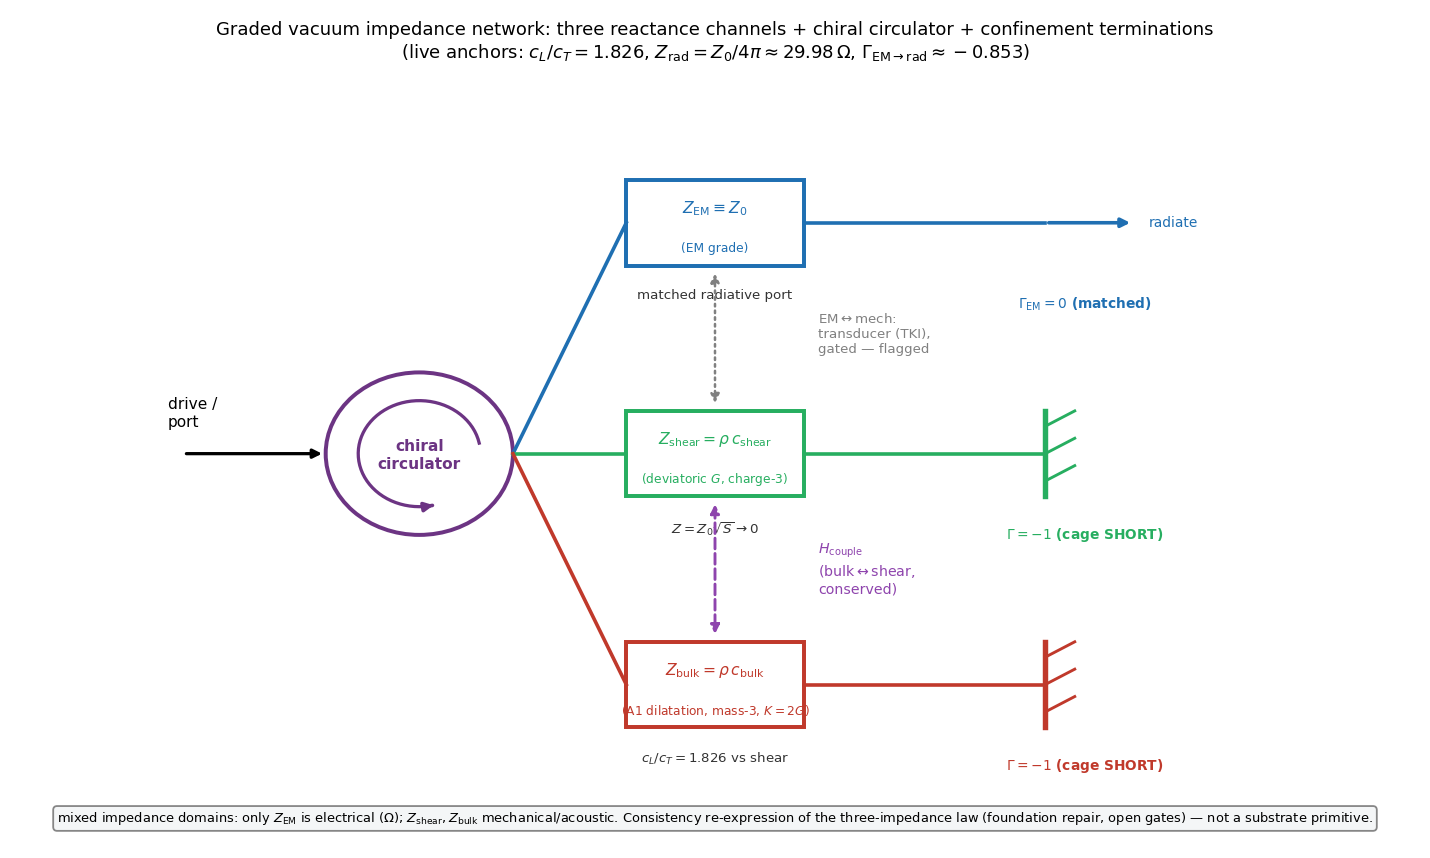
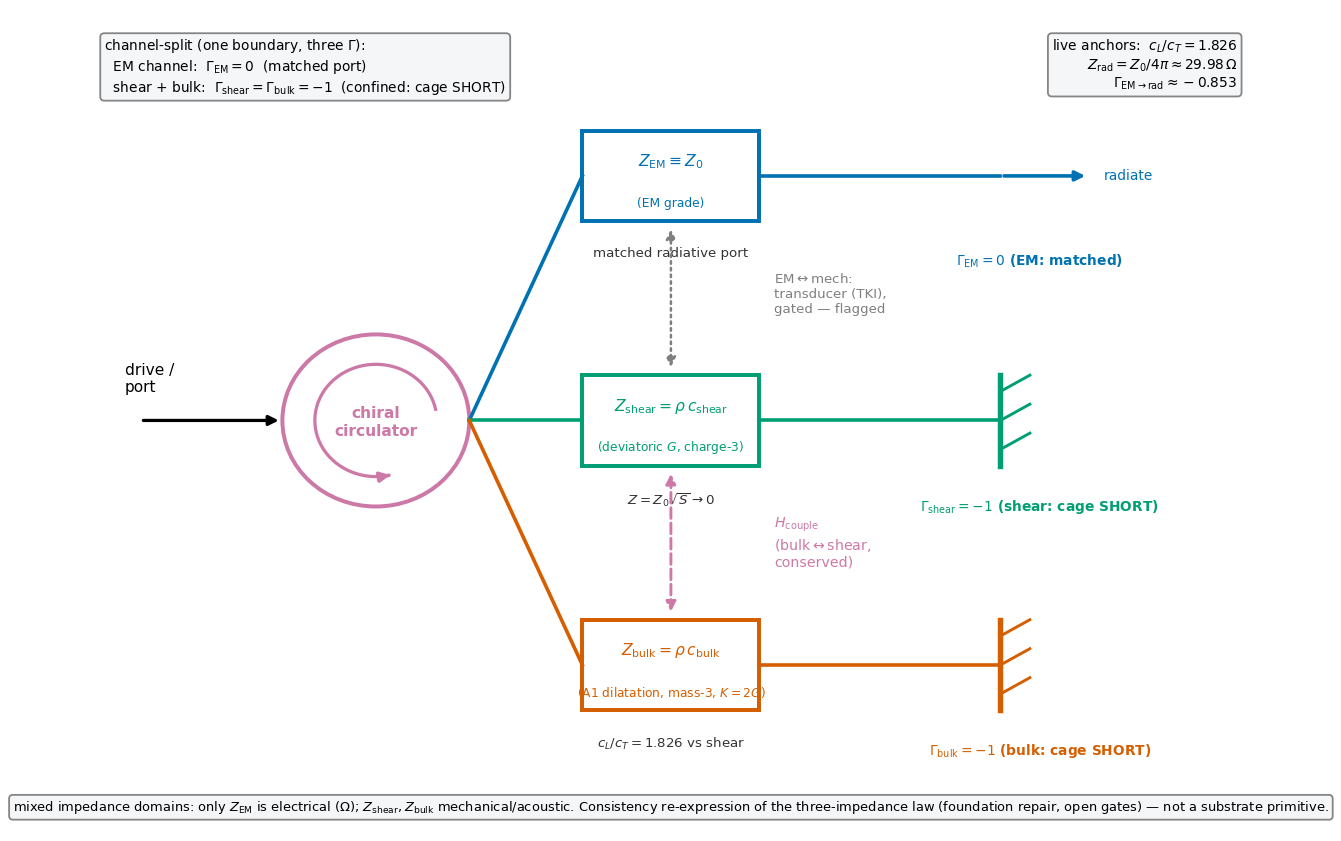
vol9 graded-network figures: house-style migration + channel-split schematic relabel
Migrate the four graded-vacuum-network figures (schematic, smith, op_sweep,
forkA discriminator) onto the ave.viz.style house profile per
ave-figure-discipline (Axis 4):
  * style.apply() print profile (white bg) once in main()
  * Okabe-Ito palette via style.COLORS (EM=ave blue, shear=accent green,
    bulk=comparison vermillion, guides=muted gray, circulator=reddish-purple);
    retires the off-palette #1f6fb2/#27ae60/#c0392b/#6c3483/#8e44ad hexes
  * baked suptitles/axes-titles removed (captions live in LaTeX \caption{})
  * legends moved OFF the data via style.legend(..., where="below") — the
    forkA panels and op_sweep previously overlapped the curves
  * style.axis_label() units-in-brackets on the dimensioned axes (schematic
    Fork-A axes kept plain — no physical units to bracket)

CONTENT FIX (schematic, canon-locked 2026-06-17 Rule-12 channel-split;
device-circuit-models.md:95-97,143-145): the two distinct Gamma values are NOT
two Gamma_EM. Relabel the three terminations as the per-channel split of ONE
saturation boundary — Gamma_EM=0 (EM: matched radiative port),
Gamma_shear=-1 (shear: cage SHORT), Gamma_bulk=-1 (bulk: cage SHORT) — plus an
on-figure channel-split key. The two -1 walls now read as the distinct
shear/bulk confined channels, not two values of one Gamma.

Presentation-tier only: every live engine anchor is preserved unchanged
(c_L/c_T=sqrt(10/3)=1.826 from RATIO_BULK_SHEAR_MECH, Z_rad=Z_0/4pi=29.98 Ohm
[…]

diff --git a/src/scripts/vol_9_device/graded_vacuum_network_figures.py b/src/scripts/vol_9_device/graded_vacuum_network_figures.py
@@ -57,6 +57,9 @@ _REPO_SRC = os.path.abspath(os.path.join(os.path.dirname(__file__), "..", "..", 
 if _REPO_SRC not in sys.path:
     sys.path.insert(0, _REPO_SRC)
 
+# ── house figure style (presentation tier; NO engine dependency) ───────────────
+from ave.viz import style  # noqa: E402
+
 # ── LIVE engine imports (READ-ONLY: figures only, no engine mutation) ──────────
 from ave.core.constants import ALPHA, Z_RADIATION  # noqa: E402
 
@@ -94,10 +97,17 @@ os.makedirs(_FIG_DIR, exist_ok=True)
 
 DPI = 130
 
-# Channel palette (consistent across all four slots).
-C_EM = "#1f6fb2"     # matched radiative port
-C_SHEAR = "#27ae60"  # deviatoric G (charge-3 Cosserat winding)
-C_BULK = "#c0392b"   # A1 dilatation (mass-3) at K=2G
+# Channel palette (consistent across all four slots) — Okabe-Ito via the house style
+# (ave-figure-discipline Axis 4). Pulled from style.COLORS so a palette re-tune in
+# ave.viz.style propagates here. Channel→colour mapping (colourblind-safe, distinct):
+#   EM    = blue        (the AVE/engine "primary" — the matched radiative port)
+#   shear = bluish-green accent (deviatoric G, charge-3 Cosserat winding)
+#   bulk  = vermillion   (A1 dilatation, mass-3, at K=2G — the "comparison" hue)
+C_EM = style.COLORS["ave"]          # #0072B2 blue   — matched radiative port
+C_SHEAR = style.COLORS["accent"]    # #009E73 green   — deviatoric G (charge-3)
+C_BULK = style.COLORS["comparison"]  # #D55E00 vermillion — A1 dilatation (mass-3)
+C_GUIDE = style.COLORS["muted"]     # #7F7F7F gray — reference lines / guides
+C_CIRC = "#CC79A7"                  # Okabe-Ito reddish-purple — chiral circulator / H_couple
 
 
 def _gamma_mu_load(S: np.ndarray) -> np.ndarray:
@@ -135,65 +145,59 @@ def fig_ii_smith() -> str:
     S_cap = float(saturation_kernel(np.array(0.99)))
     g_cap = float(_gamma_mu_load(np.array(S_cap)))
 
-    fig, (axL, axR) = plt.subplots(1, 2, figsize=(11.6, 5.2))
+    fig, (axL, axR) = plt.subplots(1, 2, figsize=(11.6, 5.6))
 
     # ── left: Γ vs S(A) per channel ──
     axL.plot(S, gamma_mech, color=C_BULK, lw=2.4,
-             label=r"$Z_{\rm bulk},\,Z_{\rm shear}$ ($\mu$-load $Z=Z_0\sqrt{S}$): $\Gamma\!\to\!-1$")
+             label=r"$Z_{\rm shear},Z_{\rm bulk}$ ($\mu$-load $Z=Z_0\sqrt{S}$): $\Gamma\!\to\!-1$")
     axL.plot(S, gamma_em, color=C_EM, lw=2.4, ls="-",
              label=r"$Z_{\rm EM}\equiv Z_0$ (matched port): $\Gamma=0$ (flat)")
-    axL.axhline(-1.0, color="grey", lw=0.9, ls=":")
-    axL.axhline(0.0, color="grey", lw=0.9, ls=":")
-    axL.plot(1.0, 0.0, "o", color="k", ms=6)
+    axL.axhline(-1.0, color=C_GUIDE, lw=0.9, ls=":")
+    axL.axhline(0.0, color=C_GUIDE, lw=0.9, ls=":")
+    axL.plot(1.0, 0.0, "o", color=style.COLORS["data"], ms=6)
     axL.annotate("vacuum: $S=1$, $\\Gamma=0$", xy=(1.0, 0.0), xytext=(0.55, -0.22),
-                 fontsize=8.5, arrowprops=dict(arrowstyle="->", lw=0.9))
+                 fontsize=8.5, arrowprops=dict(arrowstyle="->", lw=0.9, color=C_GUIDE))
     axL.plot(S_cap, g_cap, "s", color=C_BULK, ms=7)
     axL.annotate(f"$A_{{cap}}=0.99$: $S={S_cap:.3f}$,\n$\\Gamma\\approx{g_cap:.3f}$",
                  xy=(S_cap, g_cap), xytext=(0.40, -0.78), fontsize=8.5,
-                 arrowprops=dict(arrowstyle="->", lw=0.9))
+                 arrowprops=dict(arrowstyle="->", lw=0.9, color=C_GUIDE))
     axL.annotate("$S\\!\\to\\!0$ (cage SHORT)\n$\\Gamma\\!\\to\\!-1$", xy=(0.02, -0.97),
                  xytext=(0.12, -0.55), fontsize=8.5, color=C_BULK,
                  arrowprops=dict(arrowstyle="->", lw=0.9, color=C_BULK))
-    axL.set_xlabel(r"saturation $S(A)=\sqrt{1-A^2}$  (live engine kernel)")
-    axL.set_ylabel(r"reflection $\Gamma=(Z-1)/(Z+1)$")
+    axL.set_xlabel(style.axis_label(r"saturation (live engine kernel)",
+                                    r"S(A)=\sqrt{1-A^2}", ""))
+    axL.set_ylabel(style.axis_label("reflection", r"\Gamma=(Z-1)/(Z+1)", ""))
     axL.set_xlim(0.0, 1.02)
     axL.set_ylim(-1.12, 0.30)
     axL.invert_xaxis()  # saturation increases left→right (S:1→0)
     axL.grid(alpha=0.3)
-    axL.legend(fontsize=8.3, loc="upper left")
-    axL.set_title(r"Per-channel $\Gamma$ vs saturation $S(A)$")
+    style.legend(axL, fontsize=8.3, where="below")
 
     # ── right: the same trajectory on a (real-axis) Smith chart ──
     theta = np.linspace(0, 2 * np.pi, 400)
-    axR.plot(np.cos(theta), np.sin(theta), color="grey", lw=1.0)  # |Γ|=1 unit circle
+    axR.plot(np.cos(theta), np.sin(theta), color=C_GUIDE, lw=1.0)  # |Γ|=1 unit circle
     # constant-resistance circles (r=0,1,3) for orientation
     for r, a in ((0.0, 0.35), (1.0, 0.45), (3.0, 0.30)):
         cx = r / (1 + r)
         rad = 1.0 / (1 + r)
-        axR.plot(cx + rad * np.cos(theta), rad * np.sin(theta), color="grey", lw=0.7, alpha=a)
-    axR.axhline(0.0, color="grey", lw=0.7, alpha=0.5)
+        axR.plot(cx + rad * np.cos(theta), rad * np.sin(theta), color=C_GUIDE, lw=0.7, alpha=a)
+    axR.axhline(0.0, color=C_GUIDE, lw=0.7, alpha=0.5)
     # μ-load trajectory: Γ real, sweeping 0 → -1 as S:1→0 (along the negative real axis)
     axR.plot(gamma_mech, np.zeros_like(gamma_mech), color=C_BULK, lw=3.0,
-             label=r"$Z_{\rm bulk},Z_{\rm shear}$: $\Gamma:0\!\to\!-1$")
+             label=r"$Z_{\rm shear},Z_{\rm bulk}$: $\Gamma:0\!\to\!-1$")
     axR.plot(0.0, 0.0, "o", color=C_EM, ms=10,
              label=r"$Z_{\rm EM}$ matched: $\Gamma=0$ (centre)")
     axR.plot(-1.0, 0.0, "*", color=C_BULK, ms=15, label=r"short $\Gamma=-1$ ($S\!\to\!0$)")
     axR.set_xlim(-1.25, 1.25)
     axR.set_ylim(-1.25, 1.25)
     axR.set_aspect("equal")
-    axR.set_xlabel(r"$\mathrm{Re}\,\Gamma$")
-    axR.set_ylabel(r"$\mathrm{Im}\,\Gamma$")
-    axR.legend(fontsize=8.0, loc="upper right")
-    axR.set_title("Smith view ($Z_0$-normalised)")
+    axR.set_xlabel(style.axis_label("", r"\mathrm{Re}\,\Gamma", ""))
+    axR.set_ylabel(style.axis_label("", r"\mathrm{Im}\,\Gamma", ""))
+    style.legend(axR, fontsize=8.0, where="below")
 
-    fig.suptitle(
-        r"Graded-network per-channel reflection from the live varactor operator: "
-        r"$Z_{\rm EM}$ matched ($\Gamma=0$), $Z_{\rm shear}/Z_{\rm bulk}\to\Gamma=-1$ as $S(A)\to0$",
-        fontsize=10.5,
-    )
     p = os.path.join(_FIG_DIR, "vol9_graded_network_smith.png")
-    fig.tight_layout(rect=(0, 0, 1, 0.95))
-    fig.savefig(p, dpi=DPI)
+    fig.tight_layout()
+    fig.savefig(p, dpi=DPI, bbox_inches="tight")
     plt.close(fig)
     return p
 
@@ -237,31 +241,30 @@ def fig_iv_op_sweep() -> str:
 
     ax.annotate("$S\\to0$:  $Z_{\\rm bulk},Z_{\\rm shear}\\to0$ (cage SHORT)",
                 xy=(0.02, 0.05), xytext=(0.22, 0.55), fontsize=9,
-                arrowprops=dict(arrowstyle="->", lw=1.0))
-    ax.plot(1.0, 1.0, "o", color="k", ms=6)
+                arrowprops=dict(arrowstyle="->", lw=1.0, color=C_GUIDE))
+    ax.plot(1.0, 1.0, "o", color=style.COLORS["data"], ms=6)
     ax.annotate("vacuum $S=1$\n(all channels matched)", xy=(1.0, 1.0), xytext=(0.55, 1.45),
-                fontsize=8.5, arrowprops=dict(arrowstyle="->", lw=0.9))
+                fontsize=8.5, arrowprops=dict(arrowstyle="->", lw=0.9, color=C_GUIDE))
 
-    ax.set_xlabel(r"saturation $S(A)=\sqrt{1-A^2}$  (live engine kernel; $S:1\to0$ as the core saturates)")
-    ax.set_ylabel(r"channel impedance  $Z/Z_{\rm channel,0}$  (each in its own domain units)")
+    ax.set_xlabel(style.axis_label(
+        r"saturation (live engine kernel; $S:1\to0$ as the core saturates)",
+        r"S(A)=\sqrt{1-A^2}", ""))
+    ax.set_ylabel(style.axis_label(
+        "channel impedance (each in its own domain units)", r"Z/Z_{\rm channel,0}", ""))
     ax.set_xlim(0.0, 1.02)
     ax.set_ylim(0.0, max(1.7, RATIO_BULK_SHEAR_MECH + 0.15))
     ax.invert_xaxis()  # increasing saturation left→right
     ax.grid(alpha=0.3)
-    ax.legend(fontsize=8.6, loc="upper left")
-    ax.set_title(
-        "Operating-point sweep: channel impedances vs saturation $S$\n"
-        r"($Z_{\rm EM}$ flat; $Z_{\rm bulk}/Z_{\rm shear}\to0$ as $S\to0$ — from the live $Z=Z_0\sqrt{S}$ map)"
-    )
+    style.legend(ax, fontsize=8.6, where="below")
     # caveat banner: mixed impedance domains (the §6 three-impedance mis-scope warning)
     ax.text(0.5, 0.02,
             r"mixed domains: only $Z_{\rm EM}$ is electrical ($\Omega$); "
             r"$Z_{\rm shear},Z_{\rm bulk}$ are mechanical/acoustic ($\rho\times$speed)",
             transform=ax.transAxes, ha="center", va="bottom", fontsize=7.6,
-            bbox=dict(boxstyle="round", fc="#fff6e6", ec="grey", alpha=0.9))
+            bbox=dict(boxstyle="round", fc="#fff6e6", ec=C_GUIDE, alpha=0.9))
     p = os.path.join(_FIG_DIR, "vol9_graded_network_op_sweep.png")
     fig.tight_layout()
-    fig.savefig(p, dpi=DPI)
+    fig.savefig(p, dpi=DPI, bbox_inches="tight")
     plt.close(fig)
     return p
 
@@ -361,7 +364,7 @@ def fig_iii_forkA_discriminator() -> dict:
     Q_cold = cold["Q_ringdown"]
     Z_rad = float(Z_RADIATION)
 
-    fig, (axL, axR) = plt.subplots(1, 2, figsize=(12.2, 5.4))
+    fig, (axL, axR) = plt.subplots(1, 2, figsize=(12.2, 6.0))
 
     # ── LEFT: isolated intrinsic Q(N) → ∞  +  α-free cold-cage anchor ──
     Q_open = np.array(iso["Q_open"], dtype=float)
@@ -374,17 +377,13 @@ def fig_iii_forkA_discriminator() -> dict:
     axL.axhspan(band_lo, band_hi, color=C_EM, alpha=0.16)
     axL.axhline(Z_rad, color=C_EM, lw=1.0, ls=":",
                 label=rf"radiative floor $Z_{{\rm rad}}=Z_0/4\pi\approx{Z_rad:.2f}$ (band-consistent, $\neq$ identity, DEC-5)")
-    axL.axhline(ALPHA_INV, color="grey", lw=1.0, ls="--",
+    axL.axhline(ALPHA_INV, color=C_GUIDE, lw=1.0, ls="--",
                 label=rf"$\alpha^{{-1}}={ALPHA_INV:.1f}$ (baked echo — NOT reproduced cold)")
-    axL.set_xlabel(r"lattice resolution $N$ (dense isolation eigensolve)")
-    axL.set_ylabel(r"$Q=|\mathrm{Re}\,\omega|/(2|\mathrm{Im}\,\omega|)$")
+    axL.set_xlabel(style.axis_label("lattice resolution (dense isolation eigensolve)", "N", ""))
+    axL.set_ylabel(style.axis_label("", r"Q=|\mathrm{Re}\,\omega|/(2|\mathrm{Im}\,\omega|)", ""))
     axL.set_ylim(10, 1e9)
     axL.grid(alpha=0.3, which="both")
-    axL.legend(fontsize=7.6, loc="center right")
-    axL.set_title(
-        "ISOLATED arm (live engines): intrinsic $Q\\to\\infty$ (lossless-confined)\n"
-        rf"$\alpha$-free loaded floor $Q\approx{Q_cold:.1f}$ (cold cage) — neither is 137"
-    )
+    style.legend(axL, fontsize=7.6, where="below")
 
     # ── RIGHT: Fork-A discriminator schematic (coupled DEFERRED) ──
     g = np.linspace(-1.0, 1.0, 400)  # a detuning/coupling axis (schematic)
@@ -392,41 +391,38 @@ def fig_iii_forkA_discriminator() -> dict:
     # behaviour at H_couple=0 (the isolation arm IS the no-coupling limit).
     axR.plot(g, 0.6 * g, color=C_SHEAR, lw=2.4, label="isolated: free crossing (shear branch)")
     axR.plot(g, -0.6 * g, color=C_BULK, lw=2.4, label="isolated: free crossing (bulk branch)")
-    axR.plot(0.0, 0.0, "x", color="k", ms=10, mew=2.5)
+    axR.plot(0.0, 0.0, "x", color=style.COLORS["data"], ms=10, mew=2.5)
     axR.annotate("free crossing\n(no avoided gap)\n$H_{\\rm couple}=0$", xy=(0.0, 0.0),
-                 xytext=(0.18, 0.55), fontsize=8.5, arrowprops=dict(arrowstyle="->", lw=0.9))
+                 xytext=(0.18, 0.55), fontsize=8.5,
+                 arrowprops=dict(arrowstyle="->", lw=0.9, color=C_GUIDE))
     # COUPLED (DEFERRED): the avoided-crossing the coupled solve WOULD produce — drawn
     # as a faint dashed sketch with an explicit "NOT computed" stamp. NOT engine data.
     gap = 0.30
     upper = 0.5 * (0.6 * g - 0.6 * g) + np.sqrt((0.6 * g) ** 2 + gap ** 2)
     lower = -np.sqrt((0.6 * g) ** 2 + gap ** 2)
-    axR.plot(g, upper, color="grey", lw=1.6, ls="--", alpha=0.6)
-    axR.plot(g, lower, color="grey", lw=1.6, ls="--", alpha=0.6,
+    axR.plot(g, upper, color=C_GUIDE, lw=1.6, ls="--", alpha=0.6)
+    axR.plot(g, lower, color=C_GUIDE, lw=1.6, ls="--", alpha=0.6,
              label="coupled: avoided crossing (SCHEMATIC)")
     axR.annotate("mode-splitting gap\n$\\Rightarrow$ loaded $Q\\to$ OBSERVED $Q$ (not 137)",
                  xy=(0.0, gap), xytext=(-0.95, 0.55), fontsize=8.0,
-                 arrowprops=dict(arrowstyle="->", lw=0.9, color="grey"))
+                 arrowprops=dict(arrowstyle="->", lw=0.9, color=C_GUIDE))
     axR.text(0.5, 0.04,
              "COUPLED ARM DEFERRED — pending Build-B $H_{\\rm couple}$ (NOT implemented).\n"
              "Dashed avoided-crossing is a SCHEMATIC, not engine data (not faked: not computed).",
              transform=axR.transAxes, ha="center", va="bottom", fontsize=8.0,
-             bbox=dict(boxstyle="round", fc="#ffecec", ec="#c0392b", alpha=0.95))
+             bbox=dict(boxstyle="round", fc="#ffecec", ec=C_BULK, alpha=0.95))
+    # schematic axes (no physical units — a discriminator cartoon, not a data plot):
+    # keep plain text rather than forcing a misleading "[dimensionless]" bracket.
     axR.set_xlabel("coupling / detuning (schematic axis)")
-    axR.set_ylabel("mode frequency (schematic)")
+    axR.set_ylabel("mode frequency (schematic axis)")
     axR.set_xlim(-1.05, 1.05)
     axR.set_ylim(-1.0, 1.0)
     axR.grid(alpha=0.25)
-    axR.legend(fontsize=7.8, loc="upper left")
-    axR.set_title("Fork-A: isolated free-crossing (live) vs coupled mode-splitting (deferred)")
+    style.legend(axR, fontsize=7.8, where="below")
 
-    fig.suptitle(
-        "Fork-A discriminator — ISOLATED arm from the live isolation eigensolver + "
-        rf"$\alpha$-free cold-cage ringdown ($Q\approx{Q_cold:.1f}$); COUPLED arm deferred-pending-$H_{{\rm couple}}$",
-        fontsize=10.2,
-    )
     p = os.path.join(_FIG_DIR, "vol9_forkA_discriminator.png")
-    fig.tight_layout(rect=(0, 0, 1, 0.94))
-    fig.savefig(p, dpi=DPI)
+    fig.tight_layout()
+    fig.savefig(p, dpi=DPI, bbox_inches="tight")
     plt.close(fig)
     return {
         "path": p,
@@ -469,33 +465,39 @@ def fig_i_schematic() -> str:
 
     # ── shared chiral circulator (centre hub) ──
     hub = (3.0, 4.5)
-    circ = plt.Circle(hub, 0.95, fill=False, lw=2.2, color="#6c3483")
+    circ = plt.Circle(hub, 0.95, fill=False, lw=2.2, color=C_CIRC)
     ax.add_patch(circ)
     # circulating arrows (chirality)
     th = np.linspace(0.2, 1.55 * np.pi, 60)
-    ax.plot(hub[0] + 0.62 * np.cos(th), hub[1] + 0.62 * np.sin(th), color="#6c3483", lw=1.8)
+    ax.plot(hub[0] + 0.62 * np.cos(th), hub[1] + 0.62 * np.sin(th), color=C_CIRC, lw=1.8)
     ax.annotate("", xy=(hub[0] + 0.62 * np.cos(th[-1] + 0.08), hub[1] + 0.62 * np.sin(th[-1] + 0.08)),
                 xytext=(hub[0] + 0.62 * np.cos(th[-1]), hub[1] + 0.62 * np.sin(th[-1])),
-                arrowprops=dict(arrowstyle="-|>", lw=2.0, color="#6c3483"))
+                arrowprops=dict(arrowstyle="-|>", lw=2.0, color=C_CIRC))
     ax.text(hub[0], hub[1] - 0.02, "chiral\ncirculator", ha="center", va="center",
-            fontsize=8.5, color="#6c3483", fontweight="bold")
+            fontsize=8.5, color=C_CIRC, fontweight="bold")
     # input feed into the hub
     ax.annotate("", xy=(hub[0] - 0.95, hub[1]), xytext=(0.6, hub[1]),
-                arrowprops=dict(arrowstyle="-|>", lw=1.8, color="k"))
+                arrowprops=dict(arrowstyle="-|>", lw=1.8, color=style.COLORS["data"]))
     ax.text(0.45, hub[1] + 0.28, "drive /\nport", ha="left", va="bottom", fontsize=8.5)
 
     # ── branch geometry: three reactance arms to the right, fanned vertically ──
+    # CHANNEL-SPLIT labelling (2026-06-17 Rule-12; device-circuit-models.md:95-97,143-145):
+    # the two distinct Γ values are NOT two Γ_EM — they are the per-channel split of the
+    # ONE saturation boundary. EM channel: Γ_EM=0 (matched radiative PORT). Shear and bulk
+    # channels: Γ_shear=Γ_bulk=-1 (the two CONFINED channels collapse to the short). Each
+    # termination carries its own channel subscript so the figure reads as three channels,
+    # not three values of one Γ.
     arms = [
         # (y, color, name, Z-label, termination-label, term-color, term-Γ)
         (7.2, C_EM, r"$Z_{\rm EM}\equiv Z_0$" + "\n(EM grade)",
          "matched radiative port",
-         rf"$\Gamma_{{\rm EM}}=0$ (matched)", C_EM),
+         rf"$\Gamma_{{\rm EM}}=0$ (EM: matched)", C_EM),
         (4.5, C_SHEAR, r"$Z_{\rm shear}=\rho\,c_{\rm shear}$" + "\n(deviatoric $G$, charge-3)",
          r"$Z=Z_0\sqrt{S}\to0$",
-         r"$\Gamma=-1$ (cage SHORT)", C_SHEAR),
+         r"$\Gamma_{\rm shear}=-1$ (shear: cage SHORT)", C_SHEAR),
         (1.8, C_BULK, r"$Z_{\rm bulk}=\rho\,c_{\rm bulk}$" + "\n(A1 dilatation, mass-3, $K{=}2G$)",
          rf"$c_L/c_T={ratio:.3f}$ vs shear",
-         r"$\Gamma=-1$ (cage SHORT)", C_BULK),
+         r"$\Gamma_{\rm bulk}=-1$ (bulk: cage SHORT)", C_BULK),
     ]
     x0 = hub[0] + 0.95
     x_box = 6.0
@@ -530,31 +532,48 @@ def fig_i_schematic() -> str:
     # ── inter-grade coupling annotations ──
     # bulk ↔ shear : conserved H_couple (a real wire between the two mechanical grades)
     ax.annotate("", xy=(x_box, 1.8 + 0.55), xytext=(x_box, 4.5 - 0.55),
-                arrowprops=dict(arrowstyle="<|-|>", lw=1.6, color="#8e44ad", ls="--"))
+                arrowprops=dict(arrowstyle="<|-|>", lw=1.6, color=C_CIRC, ls="--"))
     ax.text(x_box + 1.05, 3.15, r"$H_{\rm couple}$" + "\n(bulk$\\leftrightarrow$shear,\nconserved)",
-            ha="left", va="center", fontsize=7.8, color="#8e44ad")
+            ha="left", va="center", fontsize=7.8, color=C_CIRC)
     # EM ↔ mechanical : needs a transducer (TKI, gated — flagged not asserted)
     ax.annotate("", xy=(x_box, 7.2 - 0.55), xytext=(x_box, 4.5 + 0.55),
-                arrowprops=dict(arrowstyle="<|-|>", lw=1.4, color="grey", ls=":"))
+                arrowprops=dict(arrowstyle="<|-|>", lw=1.4, color=C_GUIDE, ls=":"))
     ax.text(x_box + 1.05, 5.9, "EM$\\leftrightarrow$mech:\ntransducer (TKI),\ngated — flagged",
-            ha="left", va="center", fontsize=7.4, color="grey")
+            ha="left", va="center", fontsize=7.4, color=C_GUIDE)
 
-    ax.set_title(
-        "Graded vacuum impedance network: three reactance channels + chiral circulator "
-        "+ confinement terminations\n"
-        rf"(live anchors: $c_L/c_T={ratio:.3f}$, $Z_{{\rm rad}}=Z_0/4\pi\approx{Z_rad:.2f}\,\Omega$, "
-        rf"$\Gamma_{{\rm EM\to rad}}\approx{gamma_em_into_rad:.3f}$)",
-        fontsize=10.0,
-    )
+    # ── channel-split key (the 2026-06-17 Rule-12 disambiguation, on-figure) ──
+    # The two distinct Γ are a per-channel split of ONE boundary, not two Γ_EM:
+    #   EM channel    Γ_EM = 0   (matched radiative port)
+    #   shear + bulk  Γ_shear = Γ_bulk = -1   (the two confined channels collapse)
+    ax.text(0.02, 0.97,
+            r"channel-split (one boundary, three $\Gamma$):"
+            "\n"
+            r"  EM channel:  $\Gamma_{\rm EM}=0$  (matched port)"
+            "\n"
+            r"  shear + bulk:  $\Gamma_{\rm shear}=\Gamma_{\rm bulk}=-1$  (confined: cage SHORT)",
+            transform=ax.transAxes, ha="left", va="top", fontsize=7.6,
+            bbox=dict(boxstyle="round", fc="#f4f6f7", ec=C_GUIDE, alpha=0.95))
+
+    # live engine anchors as an on-figure key (NOT a caption — these are the
+    # computed numbers the schematic is labelled with; caption goes in LaTeX):
+    ax.text(0.98, 0.97,
+            rf"live anchors:  $c_L/c_T={ratio:.3f}$"
+            "\n"
+            rf"$Z_{{\rm rad}}=Z_0/4\pi\approx{Z_rad:.2f}\,\Omega$"
+            "\n"
+            rf"$\Gamma_{{\rm EM\to rad}}\approx{gamma_em_into_rad:.3f}$",
+            transform=ax.transAxes, ha="right", va="top", fontsize=7.6,
+            bbox=dict(boxstyle="round", fc="#f4f6f7", ec=C_GUIDE, alpha=0.95))
+
     ax.text(0.5, 0.015,
             r"mixed impedance domains: only $Z_{\rm EM}$ is electrical ($\Omega$); "
             r"$Z_{\rm shear},Z_{\rm bulk}$ mechanical/acoustic. Consistency re-expression of "
             r"the three-impedance law (foundation repair, open gates) — not a substrate primitive.",
             transform=ax.transAxes, ha="center", va="bottom", fontsize=7.2,
-            bbox=dict(boxstyle="round", fc="#f4f6f7", ec="grey", alpha=0.95))
+            bbox=dict(boxstyle="round", fc="#f4f6f7", ec=C_GUIDE, alpha=0.95))
     p = os.path.join(_FIG_DIR, "vol9_graded_network_schematic.png")
     fig.tight_layout()
-    fig.savefig(p, dpi=DPI)
+    fig.savefig(p, dpi=DPI, bbox_inches="tight")
     plt.close(fig)
     return p
 
@@ -562,6 +581,10 @@ def fig_i_schematic() -> str:
 def main() -> None:
     print("GRADED VACUUM IMPEDANCE NETWORK — figure generation (deterministic, engine-sourced)")
     print("=" * 78)
+    # House figure style: print profile (white bg, Okabe-Ito palette) — applied once,
+    # before any figure is built (ave-figure-discipline Axis 4).
+    style.apply()
+    print(f"  style profile = print (white bg); palette = Okabe-Ito ({style.COLORS['ave']} ave)")
     p_i = fig_i_schematic()
     print(f"  (i)   schematic        -> {os.path.relpath(p_i, _REPO_SRC)}  ({os.path.getsize(p_i)} B)")
     p_ii = fig_ii_smith()
